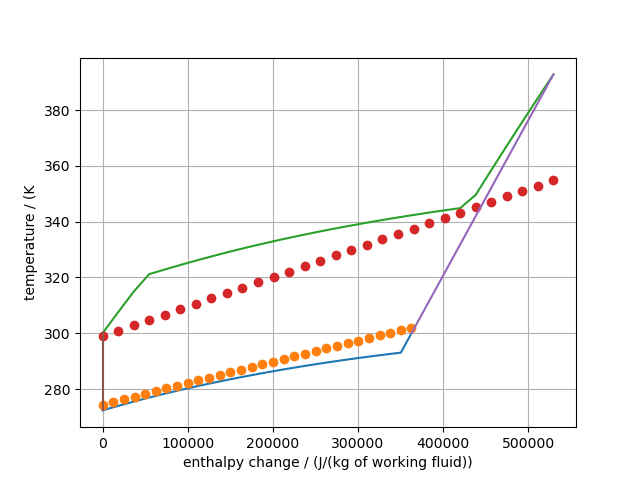
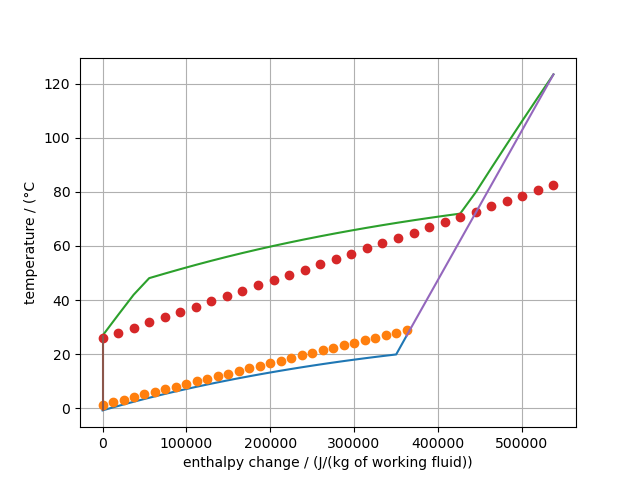
Changed plot layout

diff --git a/carbatpy/components/heat_exchanger_thermo.py b/carbatpy/components/heat_exchanger_thermo.py
@@ -324,24 +324,24 @@ class static_heat_exchanger:
         plt.figure()
         shift1 = self.t_all[0][2, -1] - self.t_all[0][2, 0]
         
-        plt.plot(self.t_all[0][2, :] - self.t_all[0][2, 0], self.t_all[0][0, :])
+        plt.plot(self.t_all[0][2, :] - self.t_all[0][2, 0], self.t_all[0][0, :]-273.15) # 
         plt.plot((self.t_all[1][2, :] - self.t_all[1][2, 0]) /
-                 self.m_ratio, self.t_all[1][0, :], "o")
+                 self.m_ratio, self.t_all[1][0, :] -273.15 , "o")
         if second !="":
             shift2 = second.t_all[0][2, -1] - second.t_all[0][2, 0]
             
-            plt.plot(second.t_all[0][2, :] - second.t_all[0][2, 0], second.t_all[0][0, :])
+            plt.plot(second.t_all[0][2, :] - second.t_all[0][2, 0], second.t_all[0][0, :]-273.15)
             plt.plot((second.t_all[1][2, :] - second.t_all[1][2, 0]) /
-                     second.m_ratio, second.t_all[1][0, :], "o")
+                     second.m_ratio, second.t_all[1][0, :]-273.15, "o")
             comp_h = [self.t_all[0][2, -1]- self.t_all[0][2, 0] , second.t_all[0][2, -1]- second.t_all[0][2, 0]]
             comp_T = [self.t_all[0][0, -1] , second.t_all[0][0, -1]]
             thr_h = [self.t_all[0][2, 0]- self.t_all[0][2, 0] , second.t_all[0][2, 0]- second.t_all[0][2, 0]]
             thr_T = [self.t_all[0][0, 0] , second.t_all[0][0, 0]]
-            plt.plot(comp_h, comp_T)
-            plt.plot(thr_h, thr_T)
+            plt.plot(comp_h, np.array(comp_T)-273.15)
+            plt.plot(thr_h, np.array(thr_T)-273.15)
             
         plt.xlabel("enthalpy change / (J/(kg of working fluid))")
-        plt.ylabel("temperature / (K")
+        plt.ylabel("temperature / (°C")
         plt.grid()
         plt.savefig(fname)
 

diff --git a/carbatpy/heat_pump_simple_run.py b/carbatpy/heat_pump_simple_run.py
@@ -36,7 +36,7 @@ pass_high_p = fprop.tp(T_pass, p_levels_wf[1],
 
 print(f"T-levels for this mixture {T_sat_low_p } K and {T_sat_high_p } K.")
 
-eta_c = .65
+eta_c = .60
 state_in = fprop.tp(*pass_low_p[:2], working_fluid, composition_wf)
 state_c_out = comp.compressor(state_in, p_levels_wf[1], eta_c, 
                               working_fluid, composition=composition_wf)
@@ -78,5 +78,6 @@ evaporator = hext.static_heat_exchanger(
     qs=qs,heating =True, dH_min=dh_ev,
     compositions=compositions)
 evaporator.pinchpoint()
+
 evaporator.hex_plot(hp_condenser)
 # #storage_fluid_ht = 
